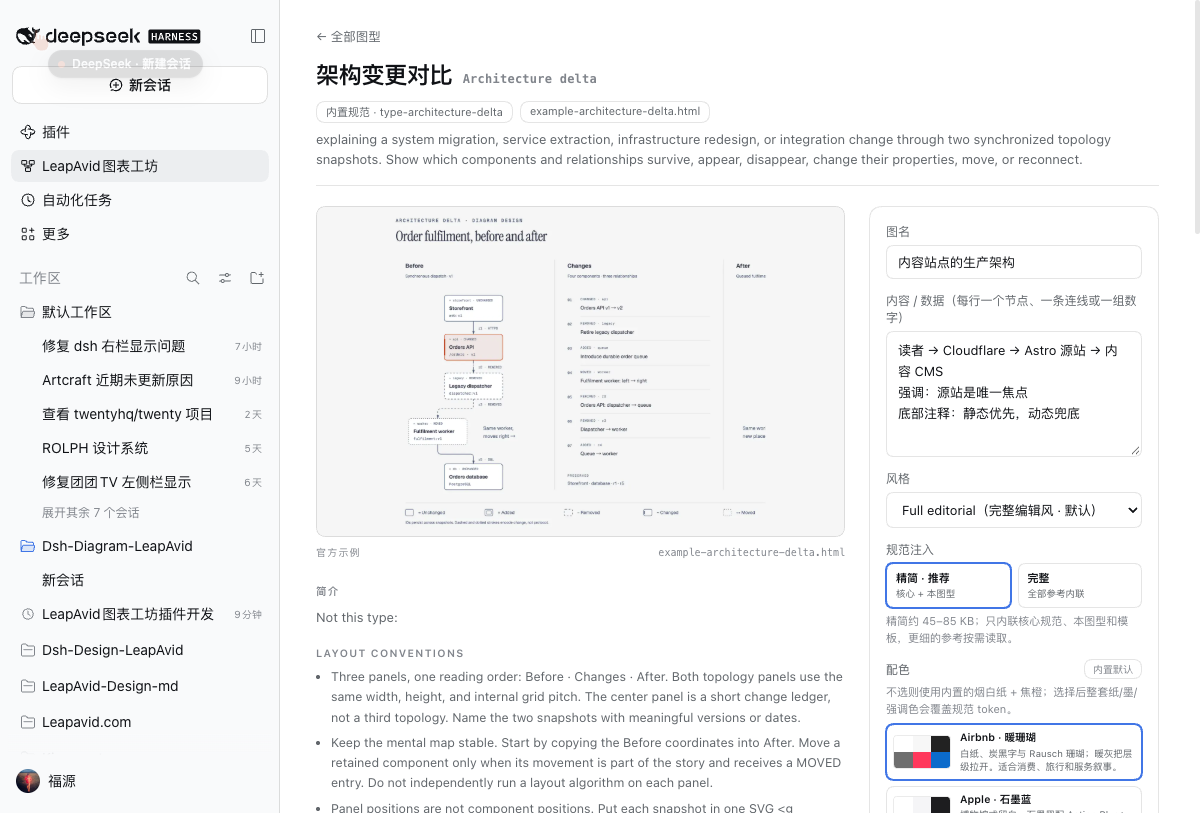
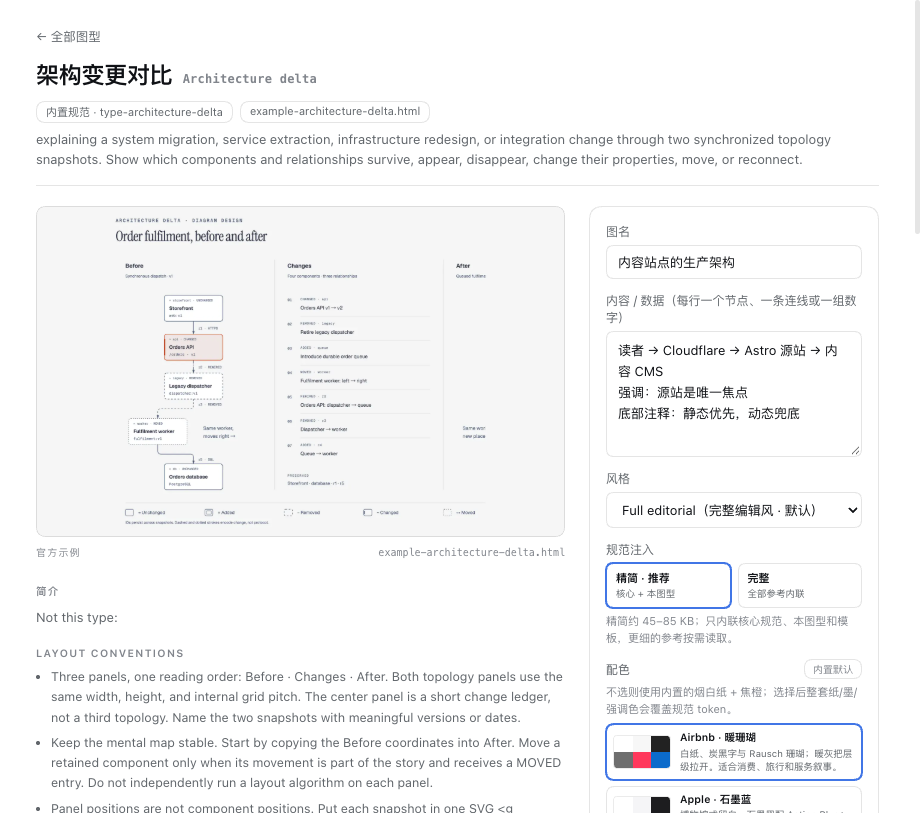
docs: refresh README screenshots

diff --git a/README.md b/README.md
@@ -48,9 +48,9 @@ LeapAvid图表工坊是一个 **DeepSeek Harness 客户端插件**。它把
 - **响应式**：列表用 `auto-fill / minmax(248px, 1fr)` 铺满面板；详情页用容器查询
   跟随面板宽度切换两栏 / 单栏，而不是跟随窗口。
 
-![LeapAvid图表工坊详情页](docs/screenshot-detail.png)
+![LeapAvid图表工坊详情页：左侧图型说明，右侧生成表单、规范档位与配色](docs/screenshot-detail.png)
 
-![10 套品牌配色与色盘说明](docs/screenshot-palettes.png)
+*详情页：左边读布局规则与官方示例，右边填内容、选规范档位与品牌配色。*
 
 ## 环境要求
 
@@ -195,7 +195,7 @@ skill/SKILL.md + references + templates ─┐
 │   ├── sync-skill.mjs        # 从上游 checkout 同步 skill/
 │   ├── test-palettes.mjs     # 配色数量、token 格式与对比度校验
 │   └── test-prompt.mjs       # 50 图型 + 5 变体 + 10 配色 + 精简/完整注入测试
-├── docs/                     # README 截图（仅插件面板，不含 DSH 左栏）
+├── docs/                     # README 截图（列表页 + 详情页，仅插件面板）
 ├── LICENSE                   # MIT 许可全文
 └── THIRD-PARTY-NOTICES.md    # 第三方版权与 MIT 许可全文
 ```
